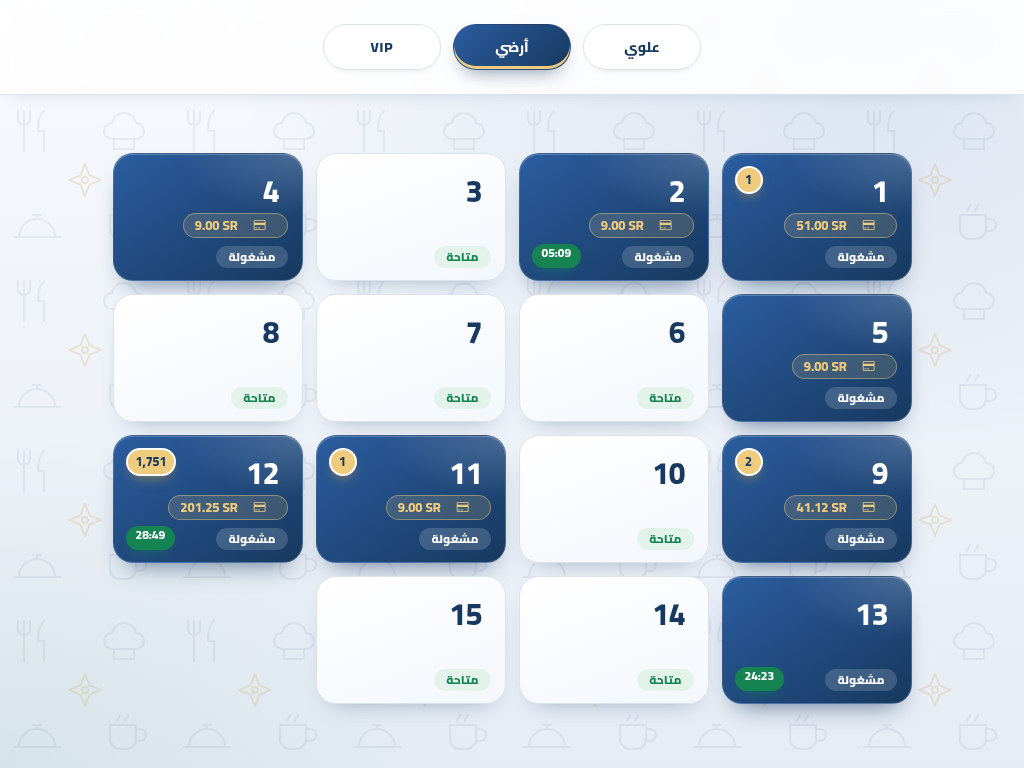
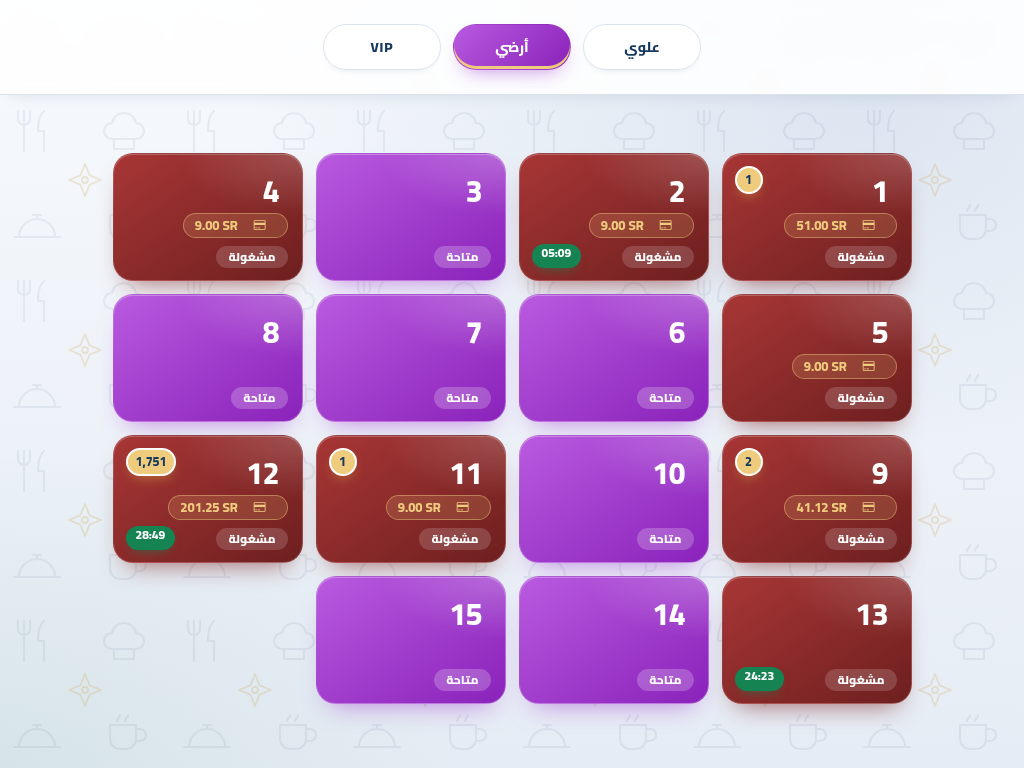
POS tables screen: a colour per floor again
Free tables take their floor's colour from hosny_pos_skin §26 (أرضي
purple, علوي blue, سفري pink, VIP turquoise, any other floor a muted
blue), now as a soft diagonal gradient with a hue-tinted shadow like
the home screen tiles; numerals and «متاحة» in white. Occupied tables
return to one maroon gradient on every floor. The active floor pill
wears its floor's colour (tokens set on the screen through :has, with
the map itself as a fallback).

Claude-Session: https://claude.ai/code/session_01Lnz3E3QEWwCq9W3i1o8rQR

diff --git a/addons/hosny_pos_home/static/src/css/floor_screen.css b/addons/hosny_pos_home/static/src/css/floor_screen.css
@@ -11,9 +11,10 @@
    Same palette as the home screen, on a light room:
      · room: pale blue-grey wash + the home screen's restaurant drawings
        in faint navy;
-     · floor pills: white, the active floor in the navy gradient;
-     · free table: white card, navy numeral, mint «متاحة» pill;
-     · occupied table: the home screen's navy tile gradient, white
+     · floor pills: white, the active floor in its floor's colour;
+     · free table: its floor's colour as a gradient, white numeral,
+       «متاحة» pill;
+     · occupied table: one maroon gradient on every floor, white
        numeral, the amount in gold, «مشغولة» and the kitchen timer as
        quiet pills along the bottom edge.
 
@@ -34,6 +35,40 @@ body:has(.pos),
     --hf-mint-ghost: #E3F3EA;
     --hf-gold: #EFCB7E;
     --hf-gold-deep: #C99A3E;
+}
+
+/* ── a colour per floor ──
+   The floor colours from hosny_pos_skin §26 (أرضي purple, علوي blue, سفري
+   pink, VIP turquoise; any other name a muted blue), each as a short
+   diagonal gradient around that hue like the home screen's tiles, and
+   one maroon for an occupied table on every floor. The tone is stamped
+   on `.floor-map` by pos_entry_selector; the tokens are set on the
+   whole screen (through :has) so the active floor pill can wear its
+   floor's colour too, and on the map itself as a fallback. */
+:is(#hs,.pos) .floor-screen,
+:is(#hs,.pos) .floor-map {
+    --hf-t-a: #85A3D0; --hf-t-b: #5A7DB4; --hf-t-glow: rgba(78,116,172,.55);
+}
+:is(#hs,.pos) .floor-screen:has(.floor-map[data-pos-floor-tone="ground"]),
+:is(#hs,.pos) .floor-map[data-pos-floor-tone="ground"] {
+    --hf-t-a: #B95AE0; --hf-t-b: #8A22BA; --hf-t-glow: rgba(150,40,200,.55);
+}
+:is(#hs,.pos) .floor-screen:has(.floor-map[data-pos-floor-tone="upper"]),
+:is(#hs,.pos) .floor-map[data-pos-floor-tone="upper"] {
+    --hf-t-a: #78AAEA; --hf-t-b: #4277C8; --hf-t-glow: rgba(66,119,200,.55);
+}
+:is(#hs,.pos) .floor-screen:has(.floor-map[data-pos-floor-tone="takeaway"]),
+:is(#hs,.pos) .floor-map[data-pos-floor-tone="takeaway"] {
+    --hf-t-a: #F25A90; --hf-t-b: #C91C5B; --hf-t-glow: rgba(220,40,110,.55);
+}
+:is(#hs,.pos) .floor-screen:has(.floor-map[data-pos-floor-tone="vip"]),
+:is(#hs,.pos) .floor-map[data-pos-floor-tone="vip"] {
+    --hf-t-a: #52C7F0; --hf-t-b: #1493C8; --hf-t-glow: rgba(20,150,200,.55);
+}
+body:has(.pos),
+.pos {
+    --hf-busy-a: #A83636;
+    --hf-busy-b: #6E1F1F;
 }
 
 /* ── the room ── */
@@ -71,13 +106,13 @@ body:has(.pos),
 }
 :is(#hs,.pos) .floor-screen .floor-selector .button-floor.active,
 :is(#hs,.pos) .floor-screen .floor-selector .btn-primary {
-    /*rtl:ignore*/background: linear-gradient(135deg, var(--hf-navy-a) 0%, var(--hf-navy-b) 100%) !important;
+    /*rtl:ignore*/background: linear-gradient(135deg, var(--hf-t-a) 0%, var(--hf-t-b) 100%) !important;
     border-color: transparent !important;
     color: #FFFFFF !important;
-    box-shadow: inset 0 -3px 0 var(--hf-gold), 0 10px 20px -10px rgba(23,57,95,.6) !important;
+    box-shadow: inset 0 -3px 0 var(--hf-gold), 0 10px 20px -10px var(--hf-t-glow) !important;
 }
 
-/* ── the card: free ── */
+/* ── the card: free — in its floor's colour ── */
 :is(#hs,.pos) .floor-map .table.custom-floor-table,
 :is(#hs,.pos) .floor-map[data-pos-floor-tone] .table.custom-floor-table,
 :is(#hs,.pos) .floor-map[data-pos-floor-tone="ground"] .table.custom-floor-table,
@@ -85,20 +120,22 @@ body:has(.pos),
 :is(#hs,.pos) .floor-map[data-pos-floor-tone="takeaway"] .table.custom-floor-table,
 :is(#hs,.pos) .floor-map[data-pos-floor-tone="vip"] .table.custom-floor-table,
 :is(#hs,.pos) .floor-map[data-pos-floor-tone] .table.custom-floor-table:has(.order-count:not(.d-none)) {
-    /*rtl:ignore*/background: linear-gradient(160deg, #FFFFFF 0%, #F3F7FC 100%) !important;
-    border: 1px solid var(--hf-line) !important;
+    /*rtl:ignore*/background:
+        radial-gradient(120% 90% at 100% 0%, rgba(255,255,255,.22), transparent 55%),
+        linear-gradient(145deg, var(--hf-t-a) 0%, var(--hf-t-b) 100%) !important;
+    border: 1px solid rgba(255,255,255,.18) !important;
     border-radius: 20px !important;
-    box-shadow: inset 0 1px 0 #FFFFFF, 0 12px 24px -16px rgba(23,57,95,.45) !important;
+    box-shadow: inset 0 1px 0 rgba(255,255,255,.28), 0 14px 26px -14px var(--hf-t-glow) !important;
 }
 :is(#hs,.pos) .floor-map .table.custom-floor-table:hover,
 :is(#hs,.pos) .floor-map[data-pos-floor-tone] .table.custom-floor-table:hover {
-    border-color: #C2D1E4 !important;
-    box-shadow: inset 0 1px 0 #FFFFFF, 0 18px 30px -16px rgba(23,57,95,.5) !important;
-    filter: none !important;
+    border-color: rgba(255,255,255,.3) !important;
+    box-shadow: inset 0 1px 0 rgba(255,255,255,.3), 0 20px 32px -14px var(--hf-t-glow) !important;
+    filter: brightness(1.05) !important;
 }
 :is(#hs,.pos) .floor-map .table.custom-floor-table .custom-floor-table-number,
 :is(#hs,.pos) .floor-map[data-pos-floor-tone] .table.custom-floor-table .custom-floor-table-number {
-    color: var(--hf-ink) !important;
+    color: #FFFFFF !important;
     font-size: 38px !important;
     font-weight: 800 !important;
     text-shadow: none !important;
@@ -129,13 +166,13 @@ body:has(.pos),
     transform: none !important;
     padding: 5px 12px !important;
     border-radius: 999px !important;
-    background: var(--hf-mint-ghost) !important;
-    color: var(--hf-mint) !important;
+    background: rgba(255,255,255,.22) !important;
+    color: #FFFFFF !important;
     font-size: 12px !important;
     font-weight: 800 !important;
 }
 
-/* ── the card: occupied — the home screen's navy tile ── */
+/* ── the card: occupied — one maroon on every floor ── */
 :is(#hs,.pos) .floor-map .table.custom-floor-table.occupied,
 :is(#hs,.pos) .floor-map[data-pos-floor-tone] .table.custom-floor-table.occupied,
 :is(#hs,.pos) .floor-map[data-pos-floor-tone="ground"] .table.custom-floor-table.occupied,
@@ -145,9 +182,9 @@ body:has(.pos),
 :is(#hs,.pos) .floor-map[data-pos-floor-tone] .table.custom-floor-table.occupied:has(.order-count:not(.d-none)) {
     /*rtl:ignore*/background:
         radial-gradient(120% 90% at 100% 0%, rgba(255,255,255,.18), transparent 55%),
-        linear-gradient(145deg, var(--hf-navy-a) 0%, var(--hf-navy-b) 100%) !important;
+        linear-gradient(145deg, var(--hf-busy-a) 0%, var(--hf-busy-b) 100%) !important;
     border: 1px solid rgba(255,255,255,.14) !important;
-    box-shadow: inset 0 1px 0 rgba(255,255,255,.22), 0 14px 26px -14px rgba(23,57,95,.7) !important;
+    box-shadow: inset 0 1px 0 rgba(255,255,255,.22), 0 14px 26px -14px rgba(120,30,30,.7) !important;
 }
 :is(#hs,.pos) .floor-map .table.custom-floor-table.occupied .custom-floor-table-number,
 :is(#hs,.pos) .floor-map[data-pos-floor-tone] .table.custom-floor-table.occupied .custom-floor-table-number {
@@ -159,7 +196,7 @@ body:has(.pos),
     color: #FFFFFF !important;
 }
 
-/* the amount: gold on navy, its own row under the numeral */
+/* the amount: gold, its own row under the numeral */
 :is(#hs,.pos) .floor-map .table.custom-floor-table .table-amount-badge,
 :is(#hs,.pos) .floor-map[data-pos-floor-tone] .table.custom-floor-table .table-amount-badge {
     left: auto !important;
